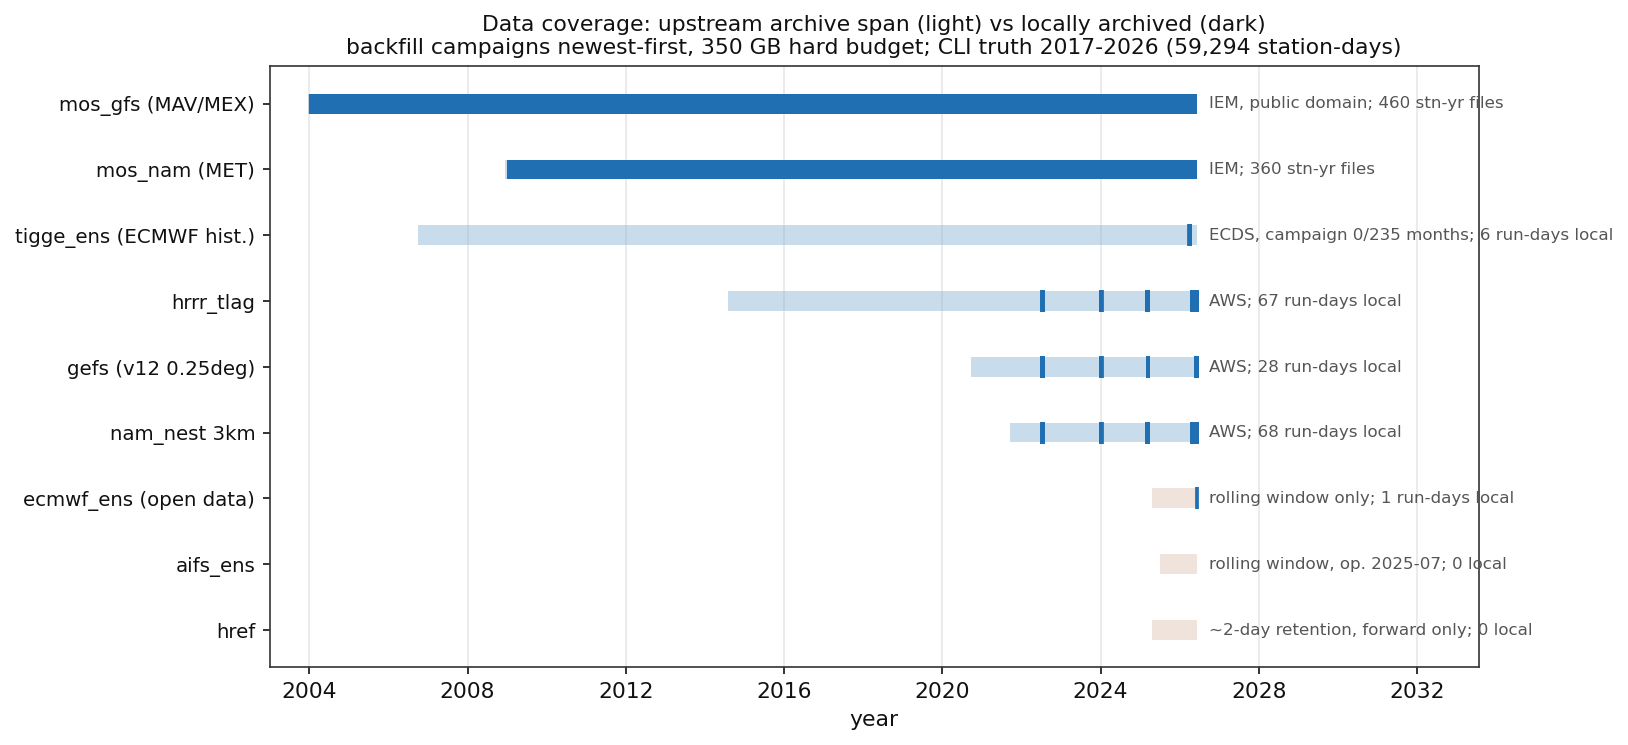
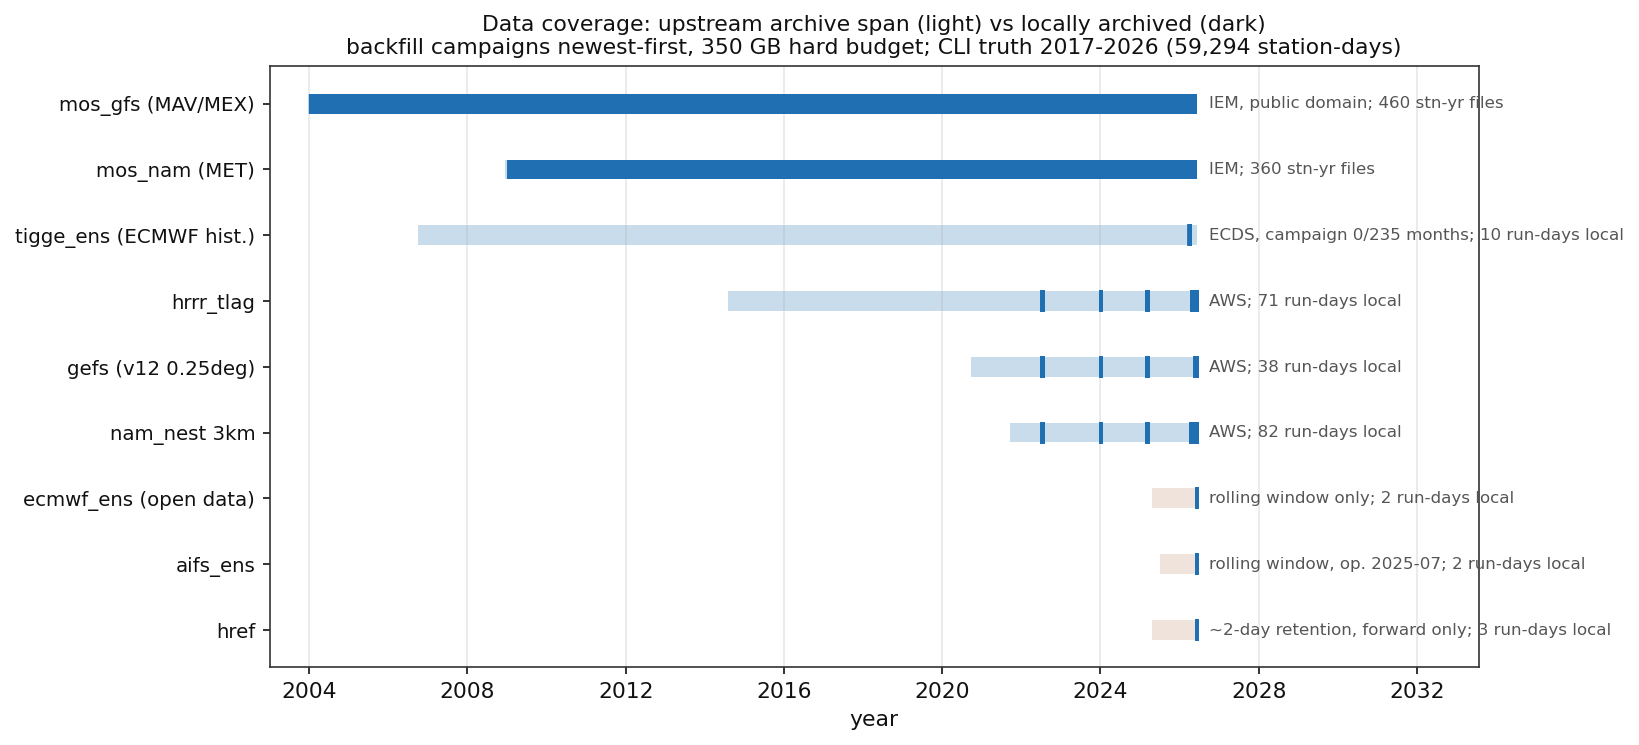
fairvalue demo: stage-0 consensus prior (tighter start spread), per-system consensus strip, re-exported real cases

diff --git a/files/fairvalue_demo/data/case_schema.md b/files/fairvalue_demo/data/case_schema.md
@@ -91,6 +91,20 @@ exporter can serialize the backtest's per-hour `SideDoc`s as-is:
 | `n_obs` | int | observations seen up to the hour |
 | `sources_used` | list | obs sources, e.g. `["synoptic_5min"]` |
 
+### Diagnostics (optional stage-0 / consensus keys)
+
+The production daemon (and the exporter mirroring it) additionally emits the
+stage-0 EMOS-consensus diagnostics below. All are OPTIONAL: bundles exported
+before the stage-0 prior landed simply lack them and the page renders
+unchanged (no strip, no prior badge).
+
+| field | type | meaning |
+|---|---|---|
+| `prior_source` | str | `"stage0"` — `pmf_prior` is the trained stage-0 EMOS consensus; `"raw_pool"` — the forecast-only equal-system pool fallback |
+| `systems_summary` | obj/null | per-system consensus view `{system: {point_f, sd_f, n_members, weight_mass, init_utc}}` (`realtime.loop._systems_summary`): `point_f` = member-mean in-day extreme °F (1 dp), `sd_f` = member sd (2 dp; `null` for deterministic 1-member systems, e.g. MOS), `n_members` = members entering the feature, `weight_mass` = the system's posterior F-draw mass (`null` for systems absent from the draw, e.g. MOS), `init_utc` = ISO init of the newest run used. Renders as the per-system strip under the PMF chart |
+| `stage0` | obj/null | stage-0 EMOS predictive diagnostics when `prior_source == "stage0"`: `mu_f`, `sigma_f`, `pattern`, `ladder_level`, `s2bar_f2`, `n_fit`, `dist`, `t_df`; `null` on the raw-pool fallback |
+| `anchor` | obj/null | the moment anchor mapping the posterior F arm onto the stage-0 prior (`stage1_truncate.compute_anchor`): `m0_eff`, `gamma`, `mu_w`, `sig_d`, `s_w`, `m0`, `s0`, `rbar`; `null` when anchoring is off, refused, or the prior is raw-pool |
+
 ## Exporter notes
 
 * One bundle per held-out day; the day must come from the holdout split